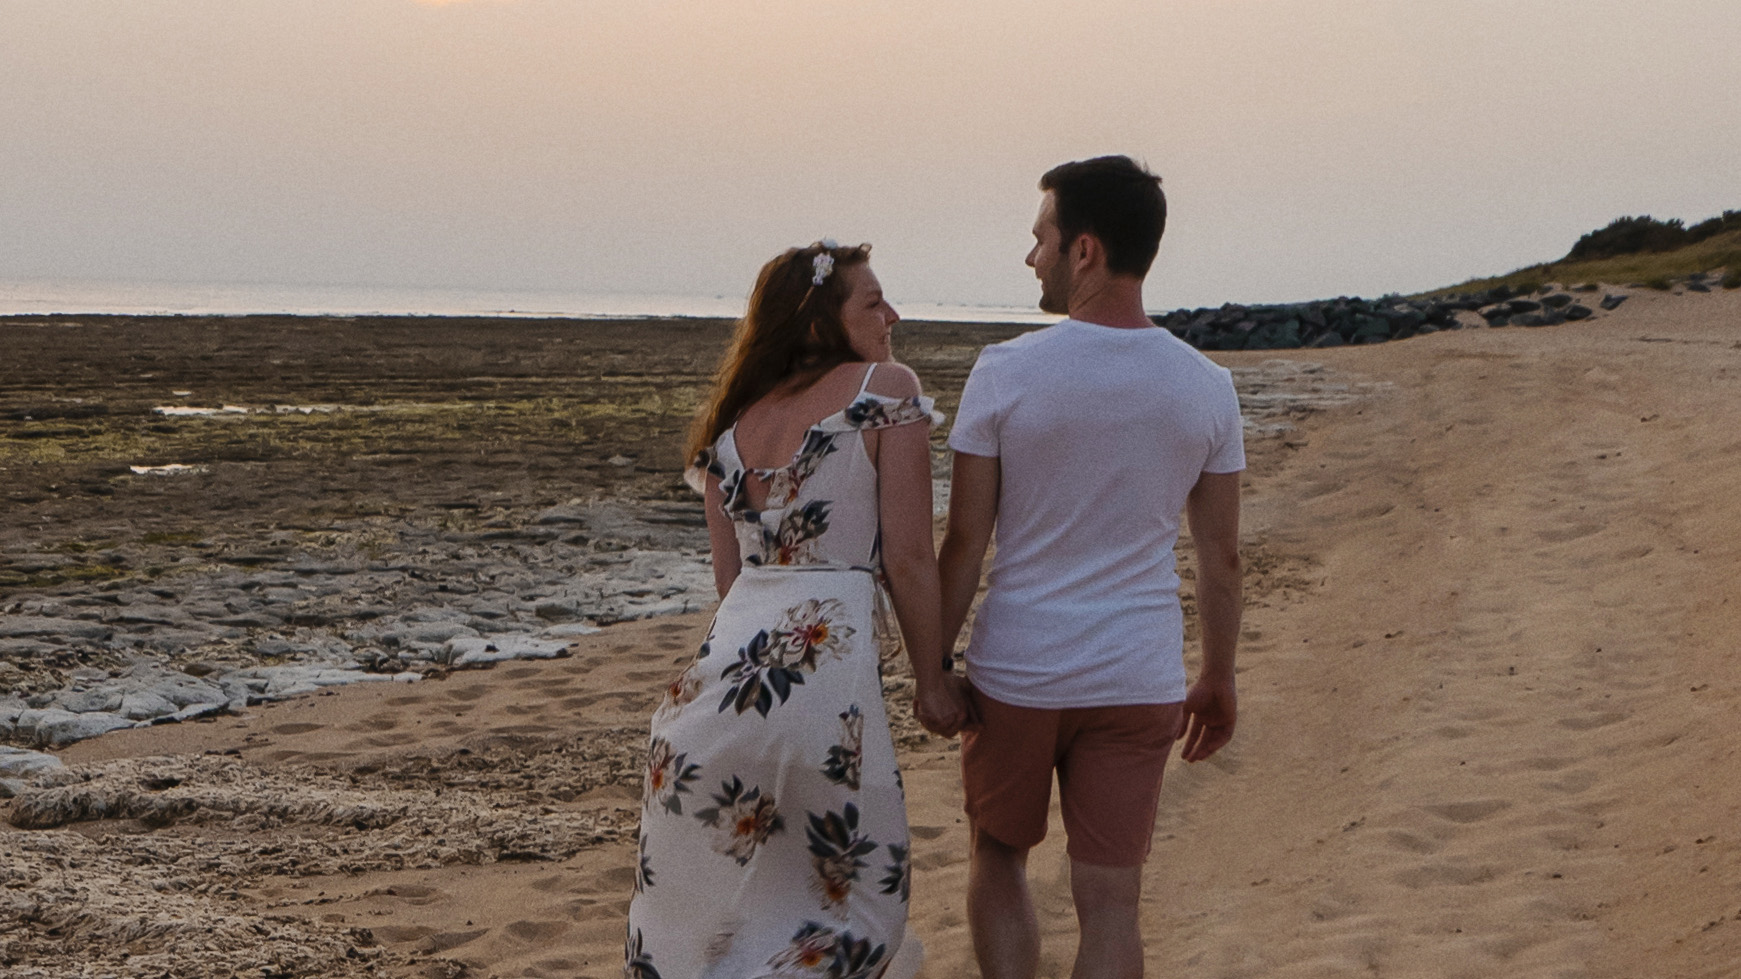
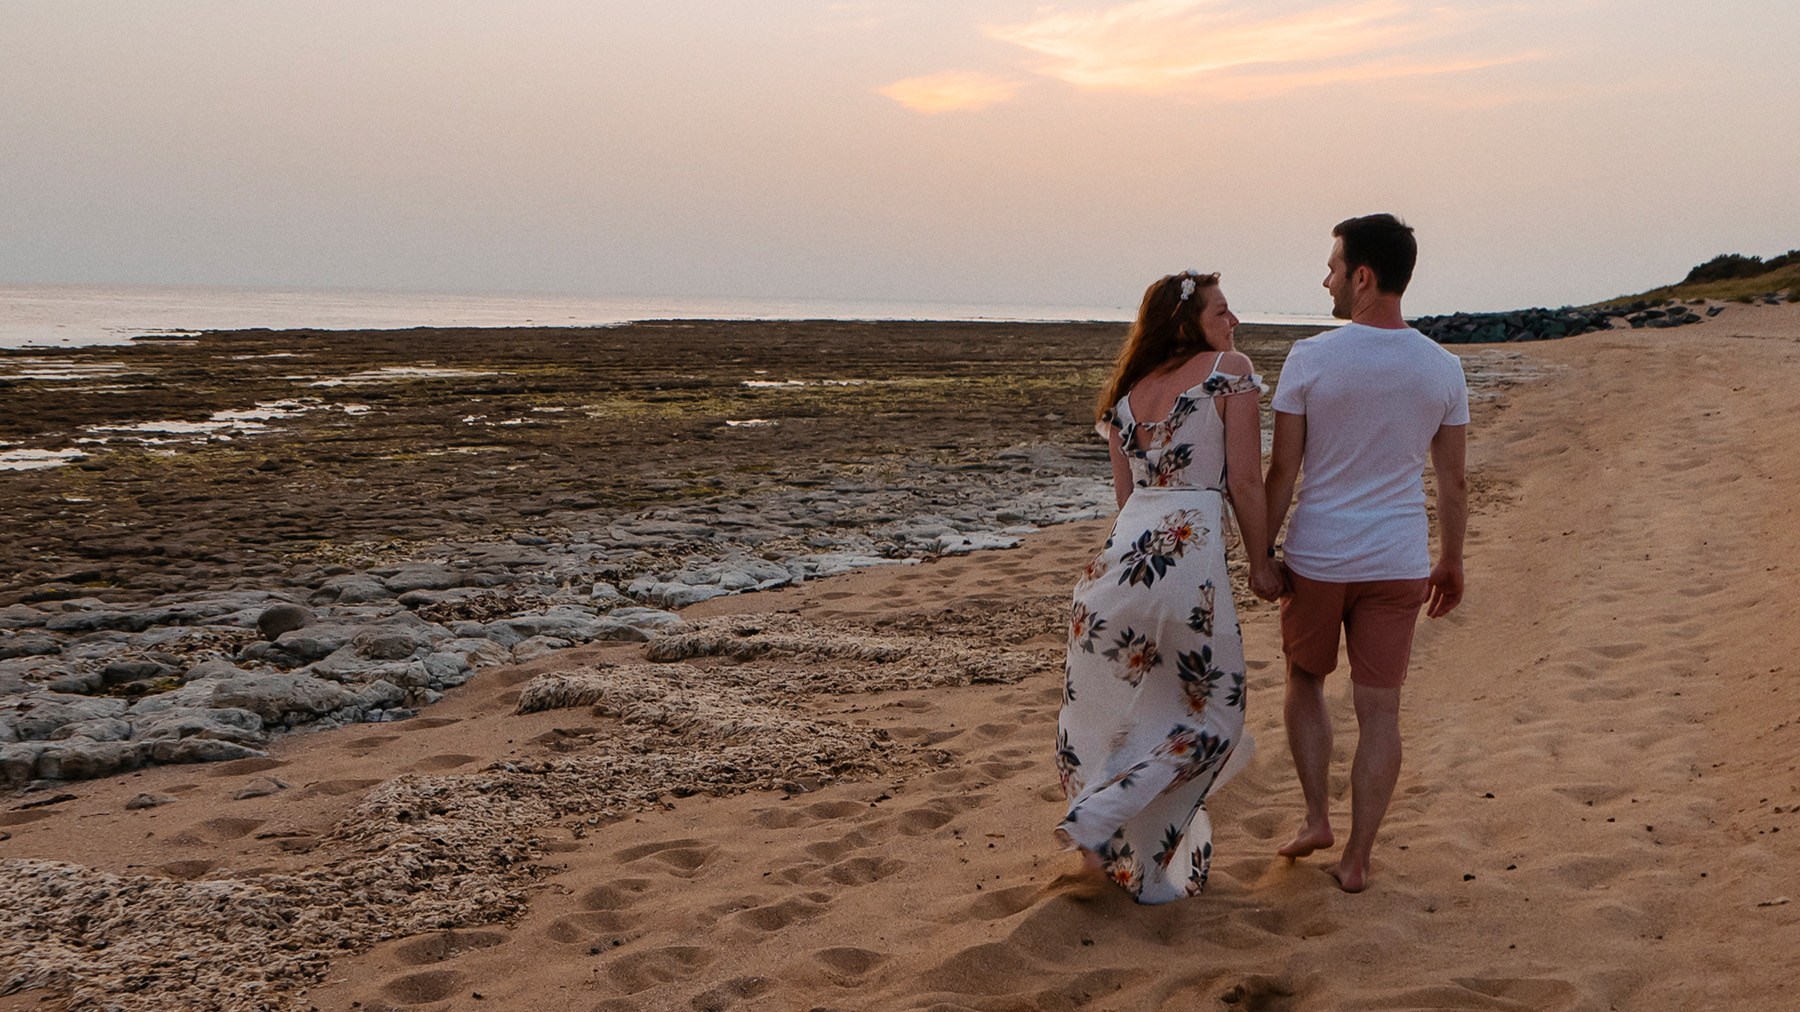
V0

diff --git a/css/main.scss b/css/main.scss
@@ -1834,7 +1834,7 @@ $baseurl: '{{ site.baseurl }}/images';
 
 			#banner,
 			.wrapper.style4 {
-				@include vendor('background-image', ('linear-gradient(top, rgba(0,0,0,0.5), rgba(0,0,0,0.5))', 'url("#{$baseurl}/banner.jpg")'));
+				@include vendor('background-image', ('linear-gradient(top, rgba(0,0,0,0.5), rgba(0,0,0,0.5))', 'url("#{$baseurl}/banner_mobile.jpg")'));
 				background-position: center center;
 				background-repeat: no-repeat;
 				background-size: cover;
